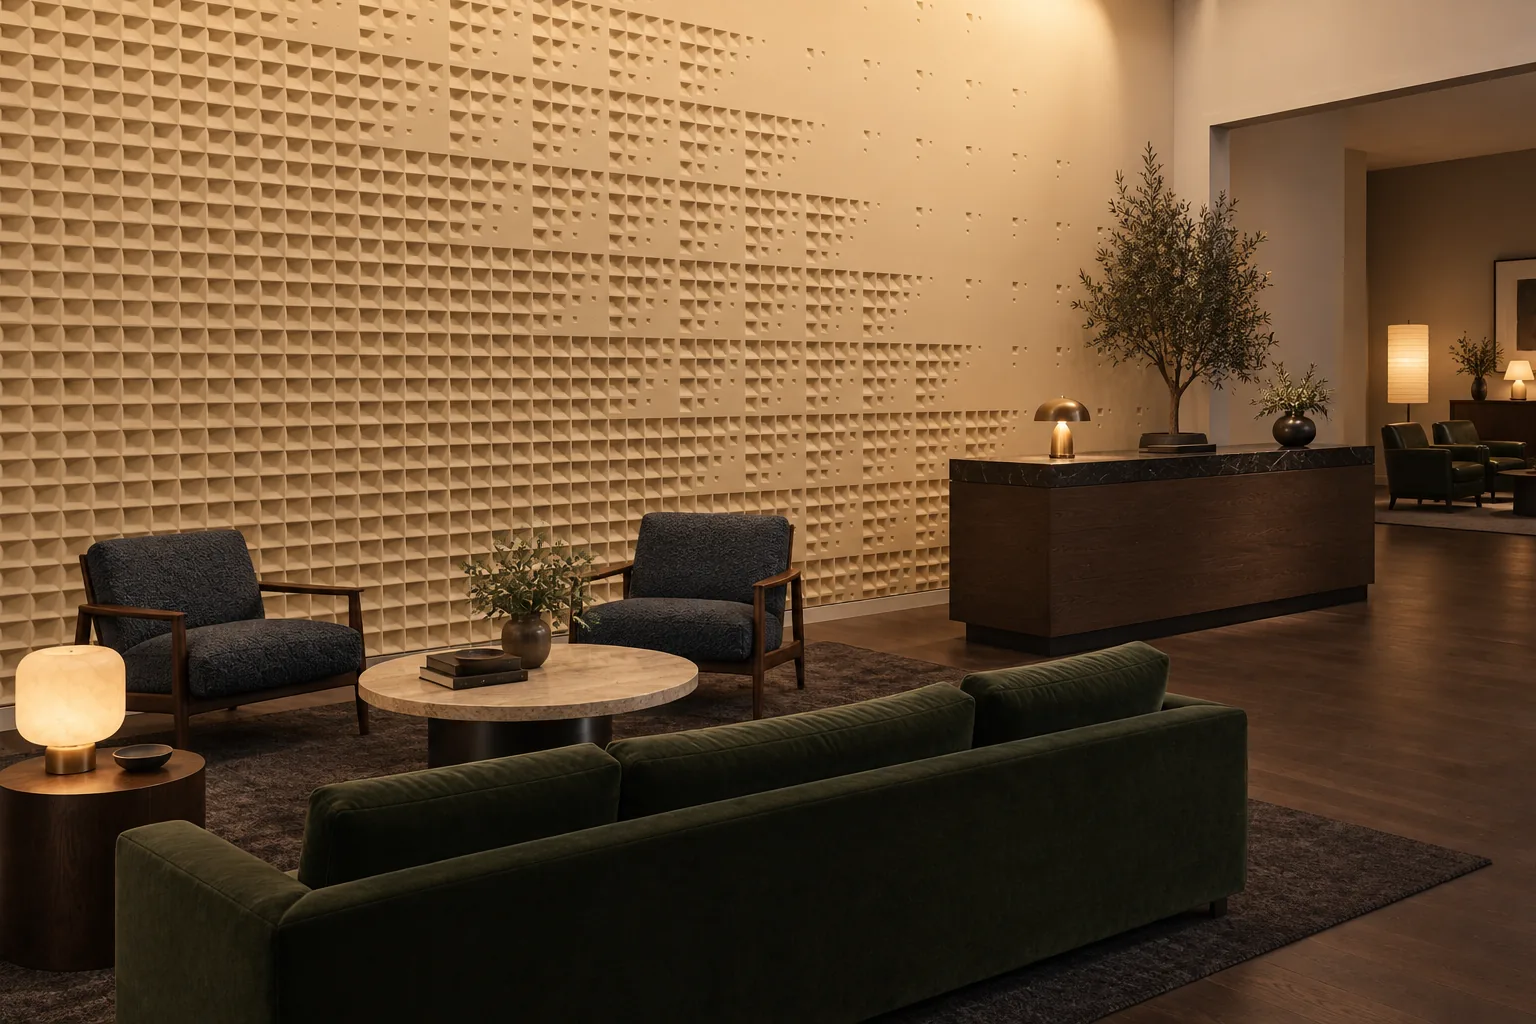
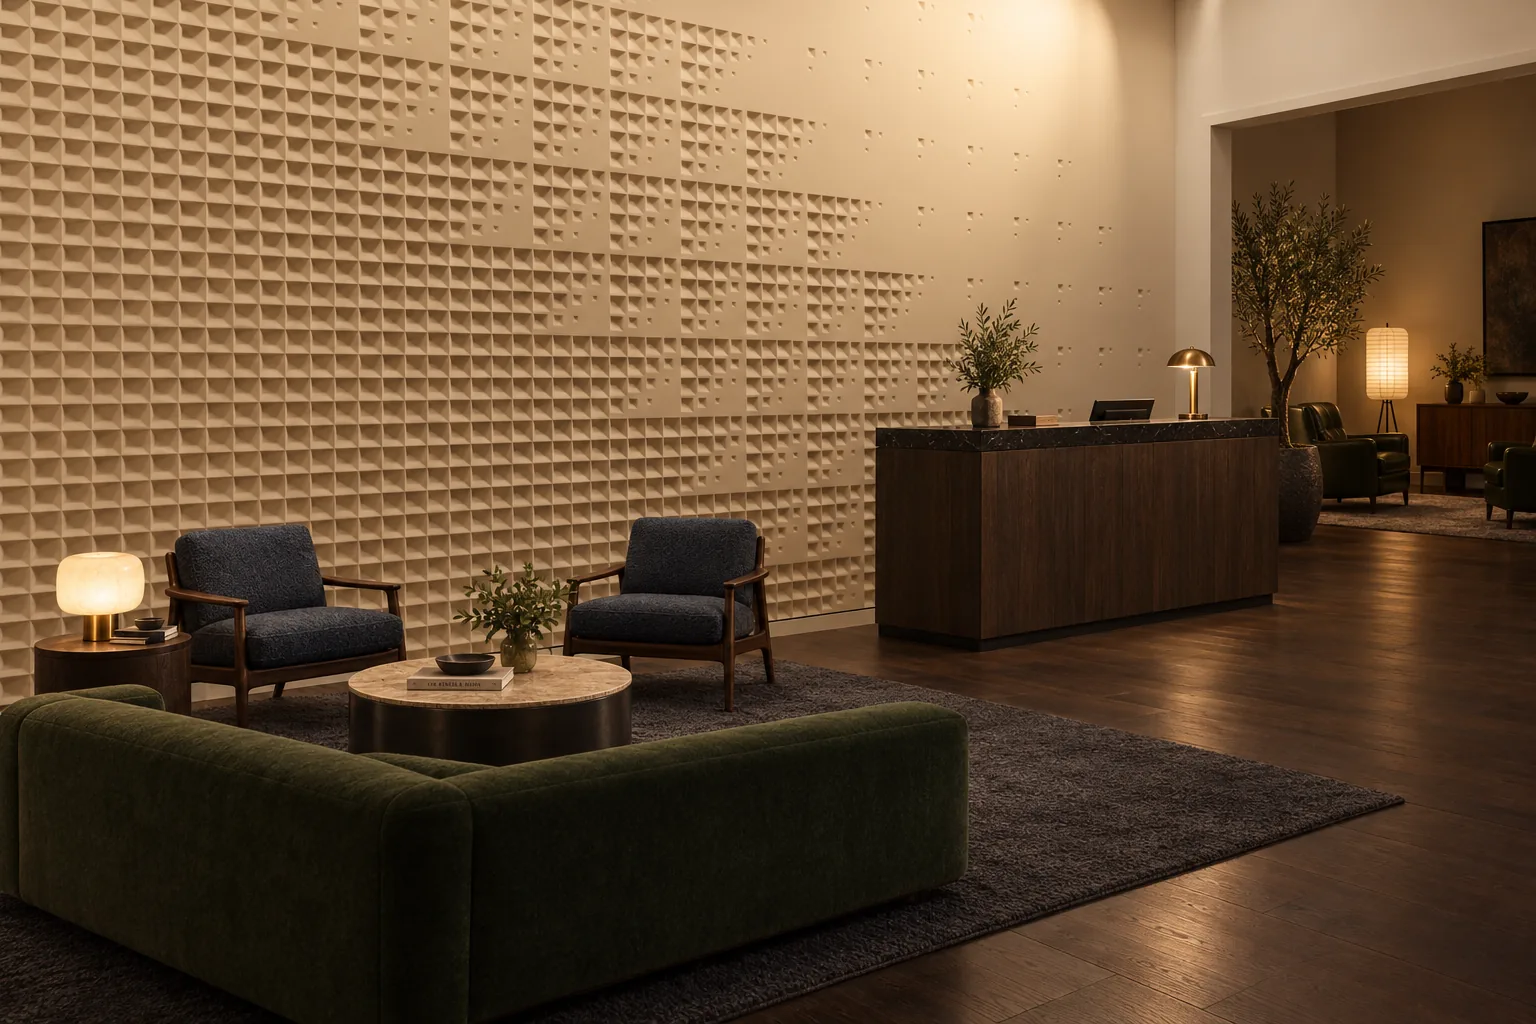
feat: design-page rooms from Burak's 10-28 board votes - Accelerando lobby is now his blind up-vote (v4 card C, round-2 draw, same room); Ricercar adds the limestone banquette as cafe (card A, cropped to the grid's 4:3 from the bottom so the furniture stays in); Ricercar v4 card C (his pick) was alr

diff --git a/en/design-ricercar.htm b/en/design-ricercar.htm
@@ -78,10 +78,11 @@
 
 <section class="dsg-room reveal">
   <h2 class="dsg-h">In a room</h2>
-  <div class="dsg-room__grid" data-n="3">
+  <div class="dsg-room__grid" data-n="4">
     <figure><img src="../assets/designs/ricercar/room-bar.webp" width="1536" height="1024" loading="lazy" alt="Render: Ricercar, bar"><figcaption>Render: bar</figcaption></figure>
     <figure><img src="../assets/designs/ricercar/room-lobby.webp" width="1536" height="1024" loading="lazy" alt="Render: Ricercar, hotel lobby"><figcaption>Render: hotel lobby</figcaption></figure>
     <figure><img src="../assets/designs/ricercar/room-restaurant.webp" width="1536" height="1024" loading="lazy" alt="Render: Ricercar, restaurant"><figcaption>Render: restaurant</figcaption></figure>
+    <figure><img src="../assets/designs/ricercar/room-cafe.webp" width="1122" height="842" loading="lazy" alt="Render: Ricercar, café"><figcaption>Render: café</figcaption></figure>
   </div>
 </section>
 

diff --git a/tasarim-ricercar.htm b/tasarim-ricercar.htm
@@ -78,10 +78,11 @@
 
 <section class="dsg-room reveal">
   <h2 class="dsg-h">Bir mekânda</h2>
-  <div class="dsg-room__grid" data-n="3">
+  <div class="dsg-room__grid" data-n="4">
     <figure><img src="assets/designs/ricercar/room-bar.webp" width="1536" height="1024" loading="lazy" alt="Render: Ricercar, bar"><figcaption>Render: bar</figcaption></figure>
     <figure><img src="assets/designs/ricercar/room-lobby.webp" width="1536" height="1024" loading="lazy" alt="Render: Ricercar, otel lobisi"><figcaption>Render: otel lobisi</figcaption></figure>
     <figure><img src="assets/designs/ricercar/room-restaurant.webp" width="1536" height="1024" loading="lazy" alt="Render: Ricercar, restoran"><figcaption>Render: restoran</figcaption></figure>
+    <figure><img src="assets/designs/ricercar/room-cafe.webp" width="1122" height="842" loading="lazy" alt="Render: Ricercar, kafe"><figcaption>Render: kafe</figcaption></figure>
   </div>
 </section>
 
